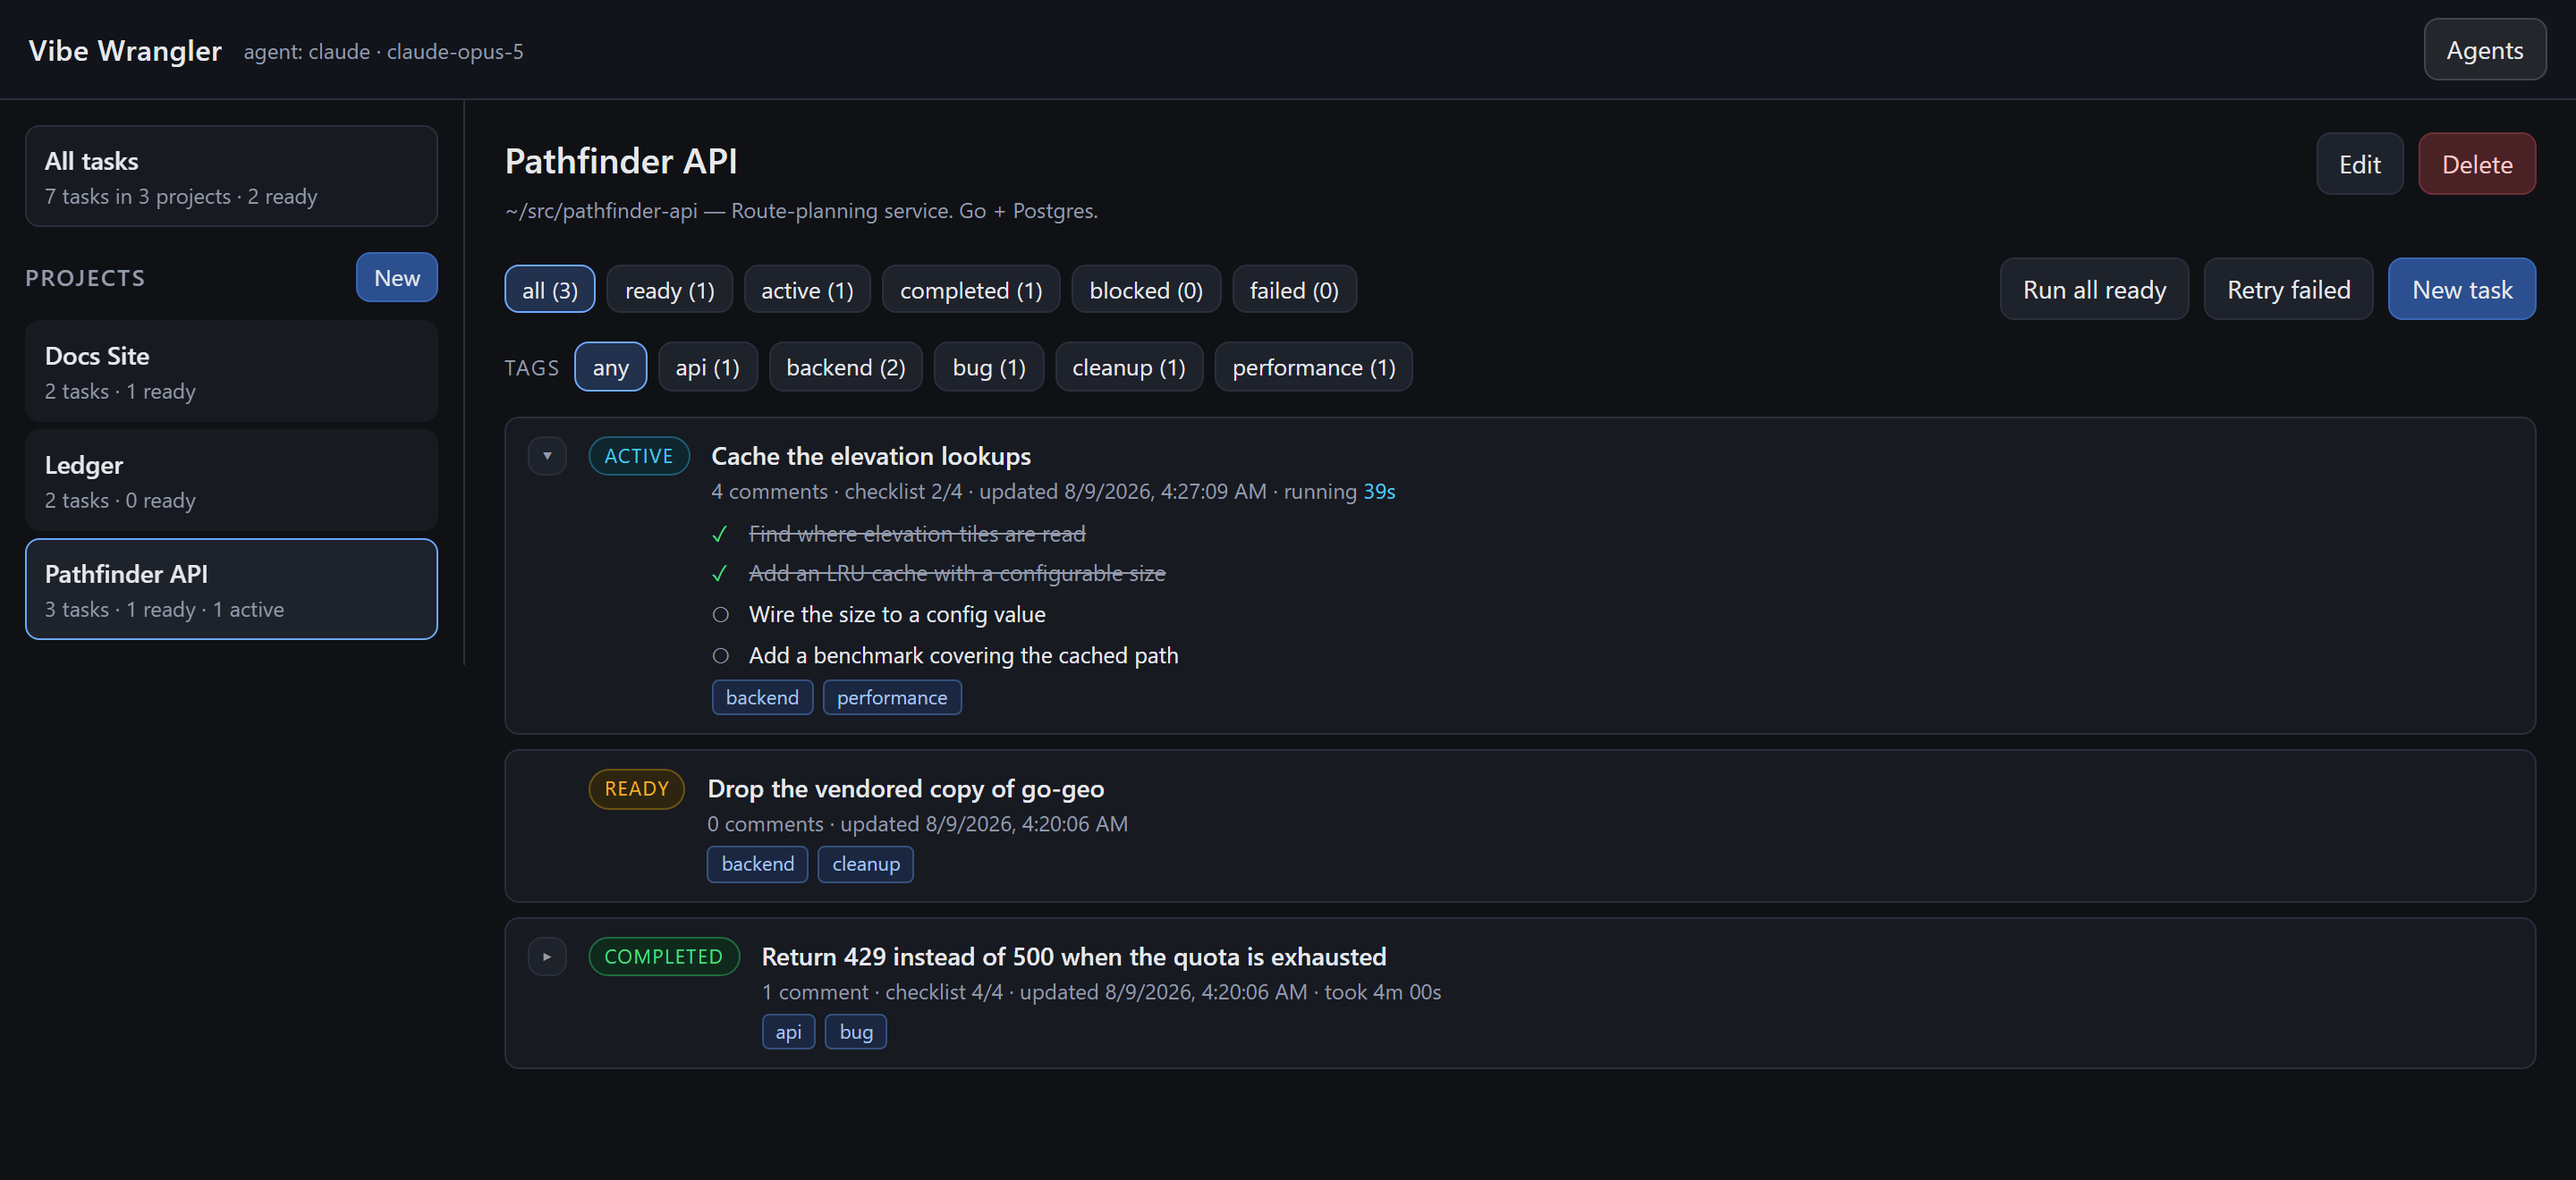
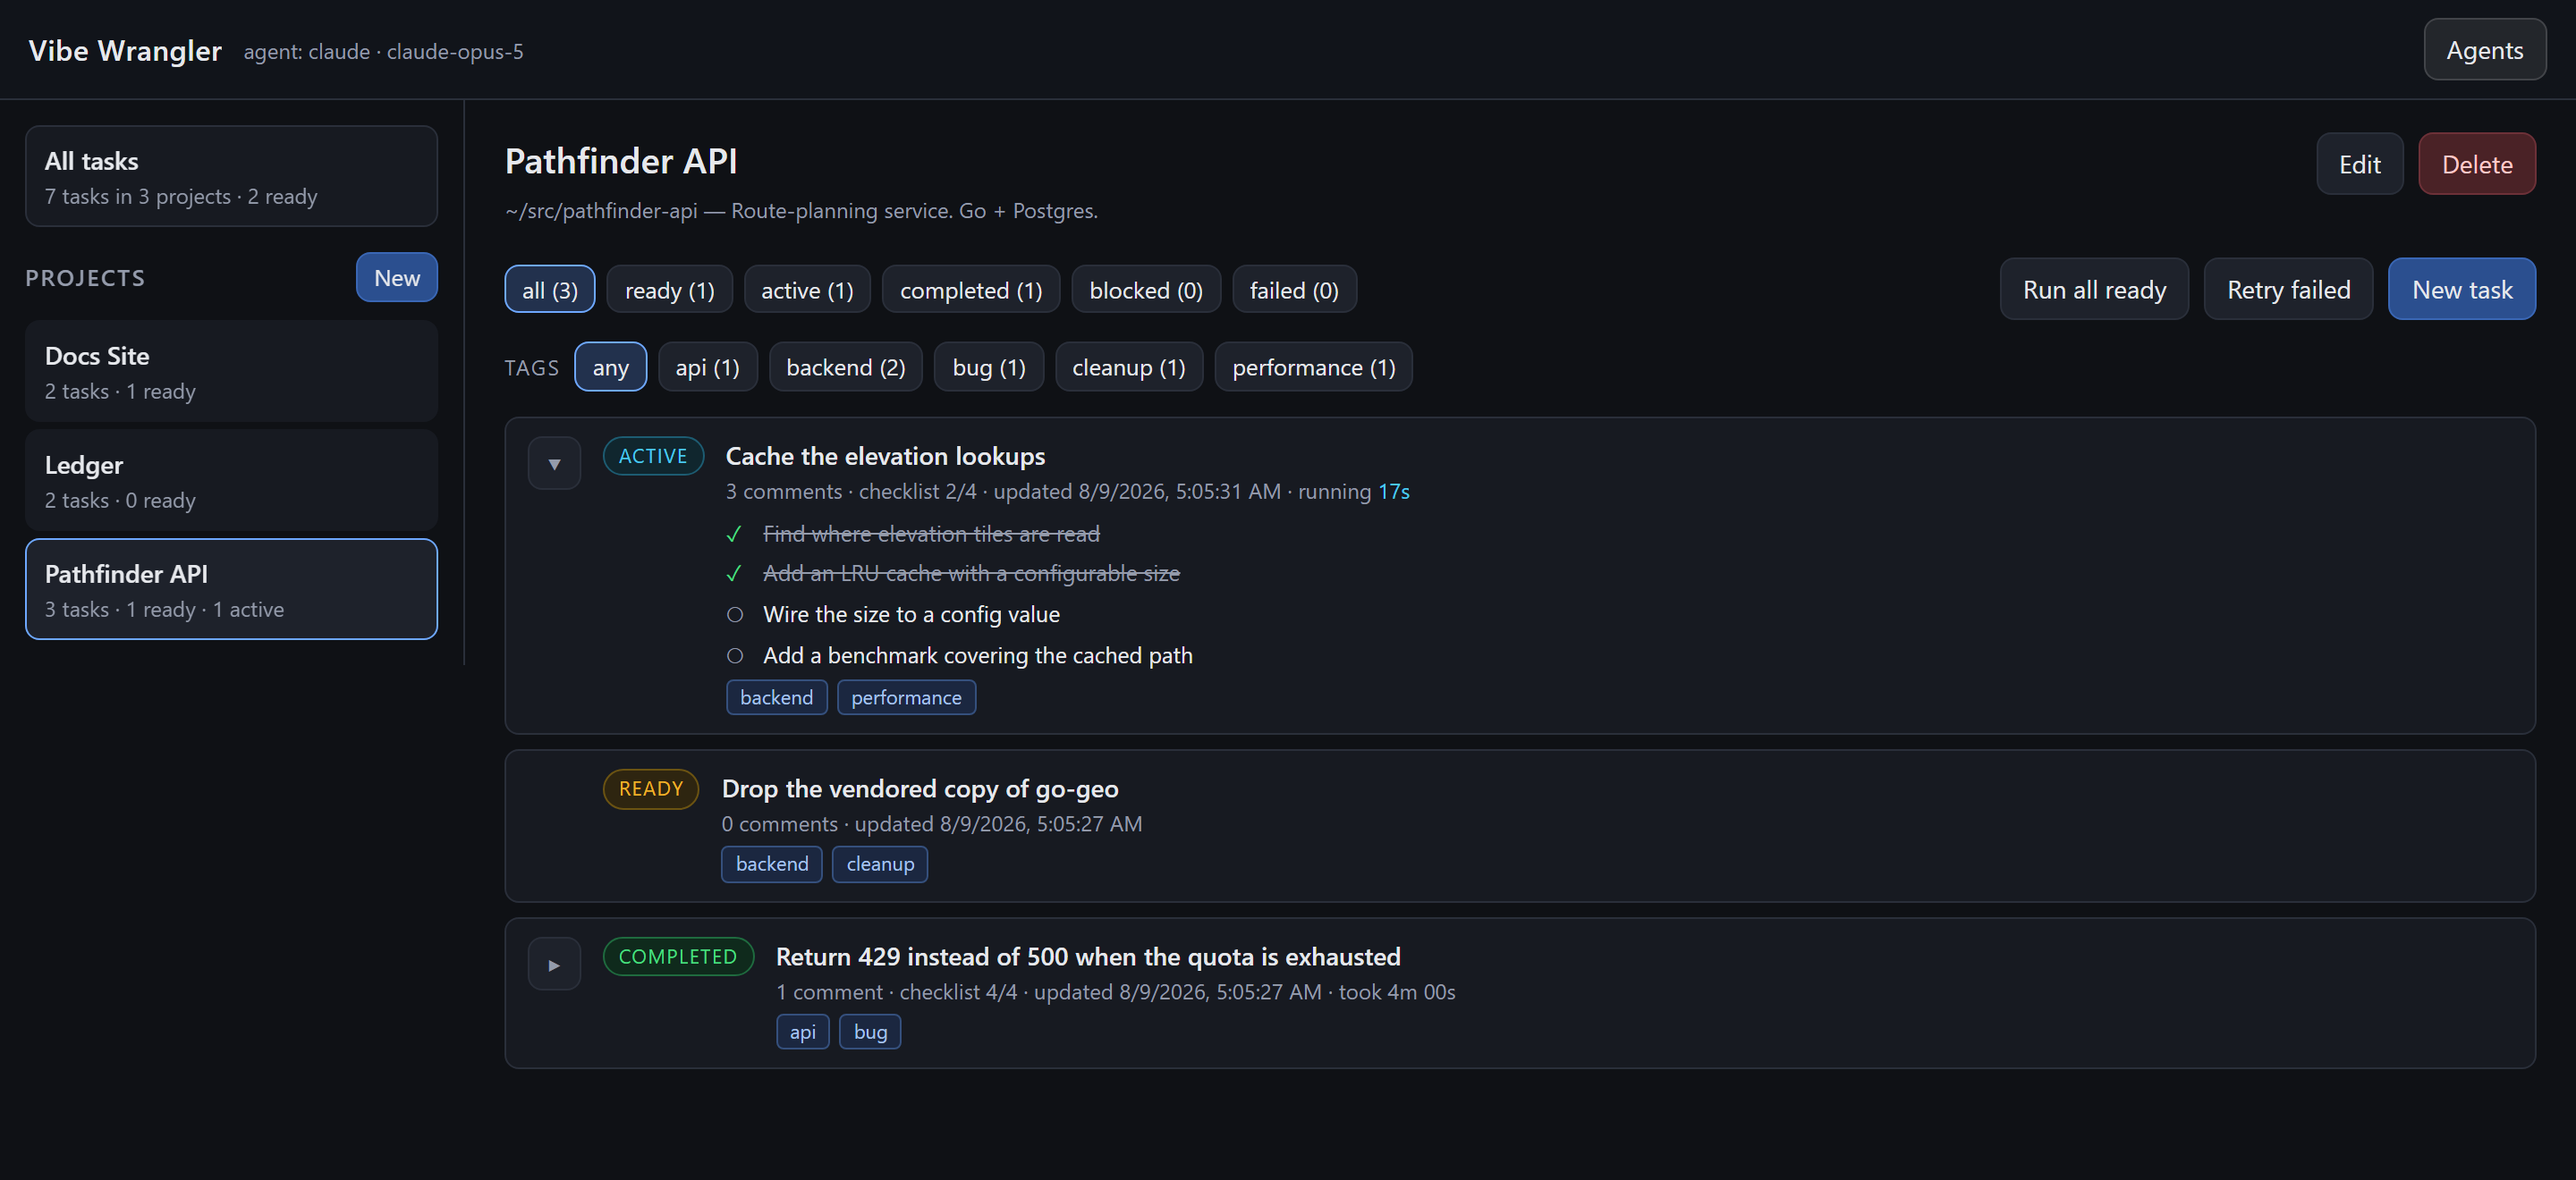
Enlarge the checklist disclosure triangle
It was overridden down to a 22px box with a 14px glyph, noticeably
smaller than every other icon button. Dropping the override lets it
inherit the shared icon-button size instead of restating one.

Changed region(s): [[0.2188, 0.3727, 0.5625, 0.6212], [0.2188, 0.8076, 0.5625, 0.9008], [0.2188, 0.6523, 0.4375, 0.7455]]

diff --git a/public/styles.css b/public/styles.css
@@ -184,10 +184,10 @@ code { background: var(--panel-2); padding: 1px 4px; border-radius: 4px; }
 .task-item:hover { border-color: #3a4150; background: var(--panel-2); }
 
 /* Inherits the shared icon-button hit target, so the whole square is visibly clickable at rest. */
-.disclosure { flex: 0 0 auto; width: 22px; height: 22px; font-size: 14px; color: var(--muted); }
+.disclosure { flex: 0 0 auto; color: var(--muted); }
 .disclosure:hover { color: var(--text); }
 /* Keeps rows without a checklist aligned with rows that have one. */
-.disclosure-gap { flex: 0 0 auto; width: 22px; }
+.disclosure-gap { flex: 0 0 auto; width: 30px; }
 .task-main { flex: 1; min-width: 0; }
 .task-title { font-weight: 600; }
 .task-sub { font-size: 12px; color: var(--muted); overflow: hidden; text-overflow: ellipsis; white-space: nowrap; }
